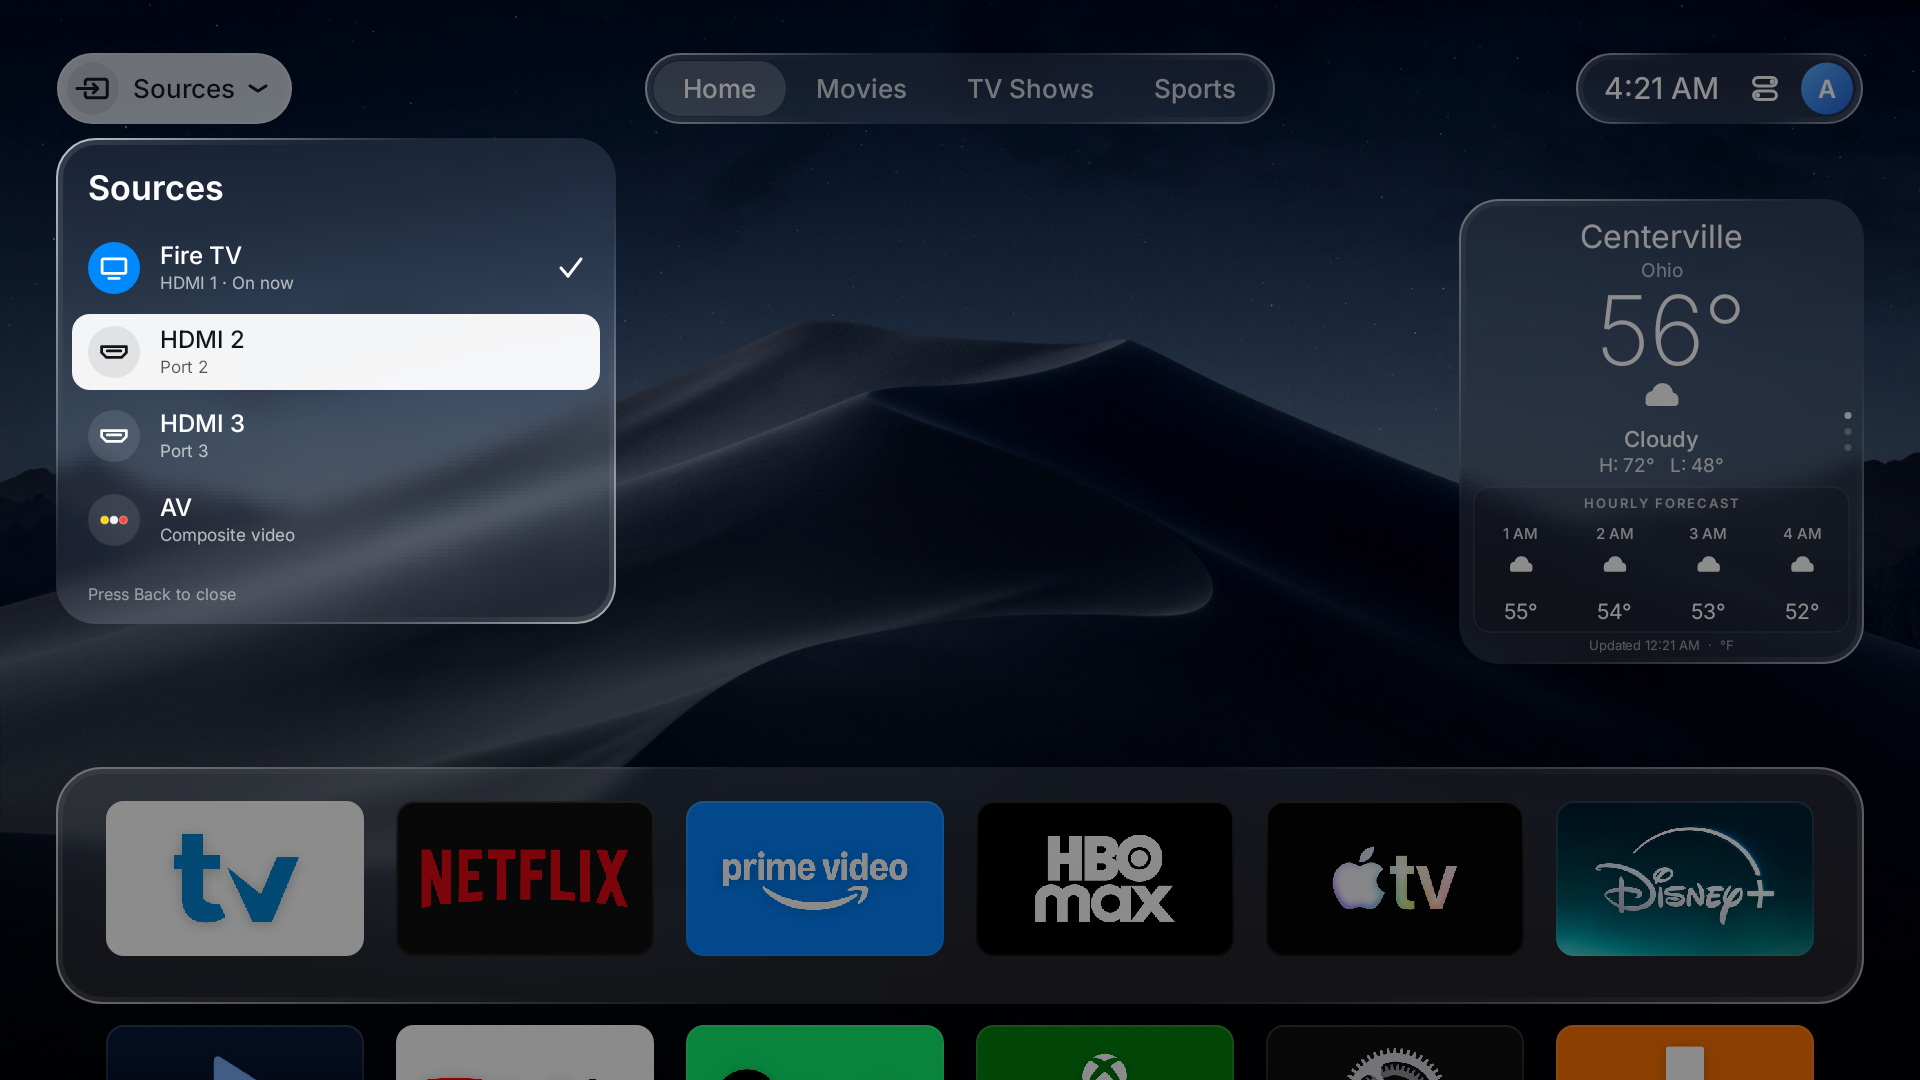
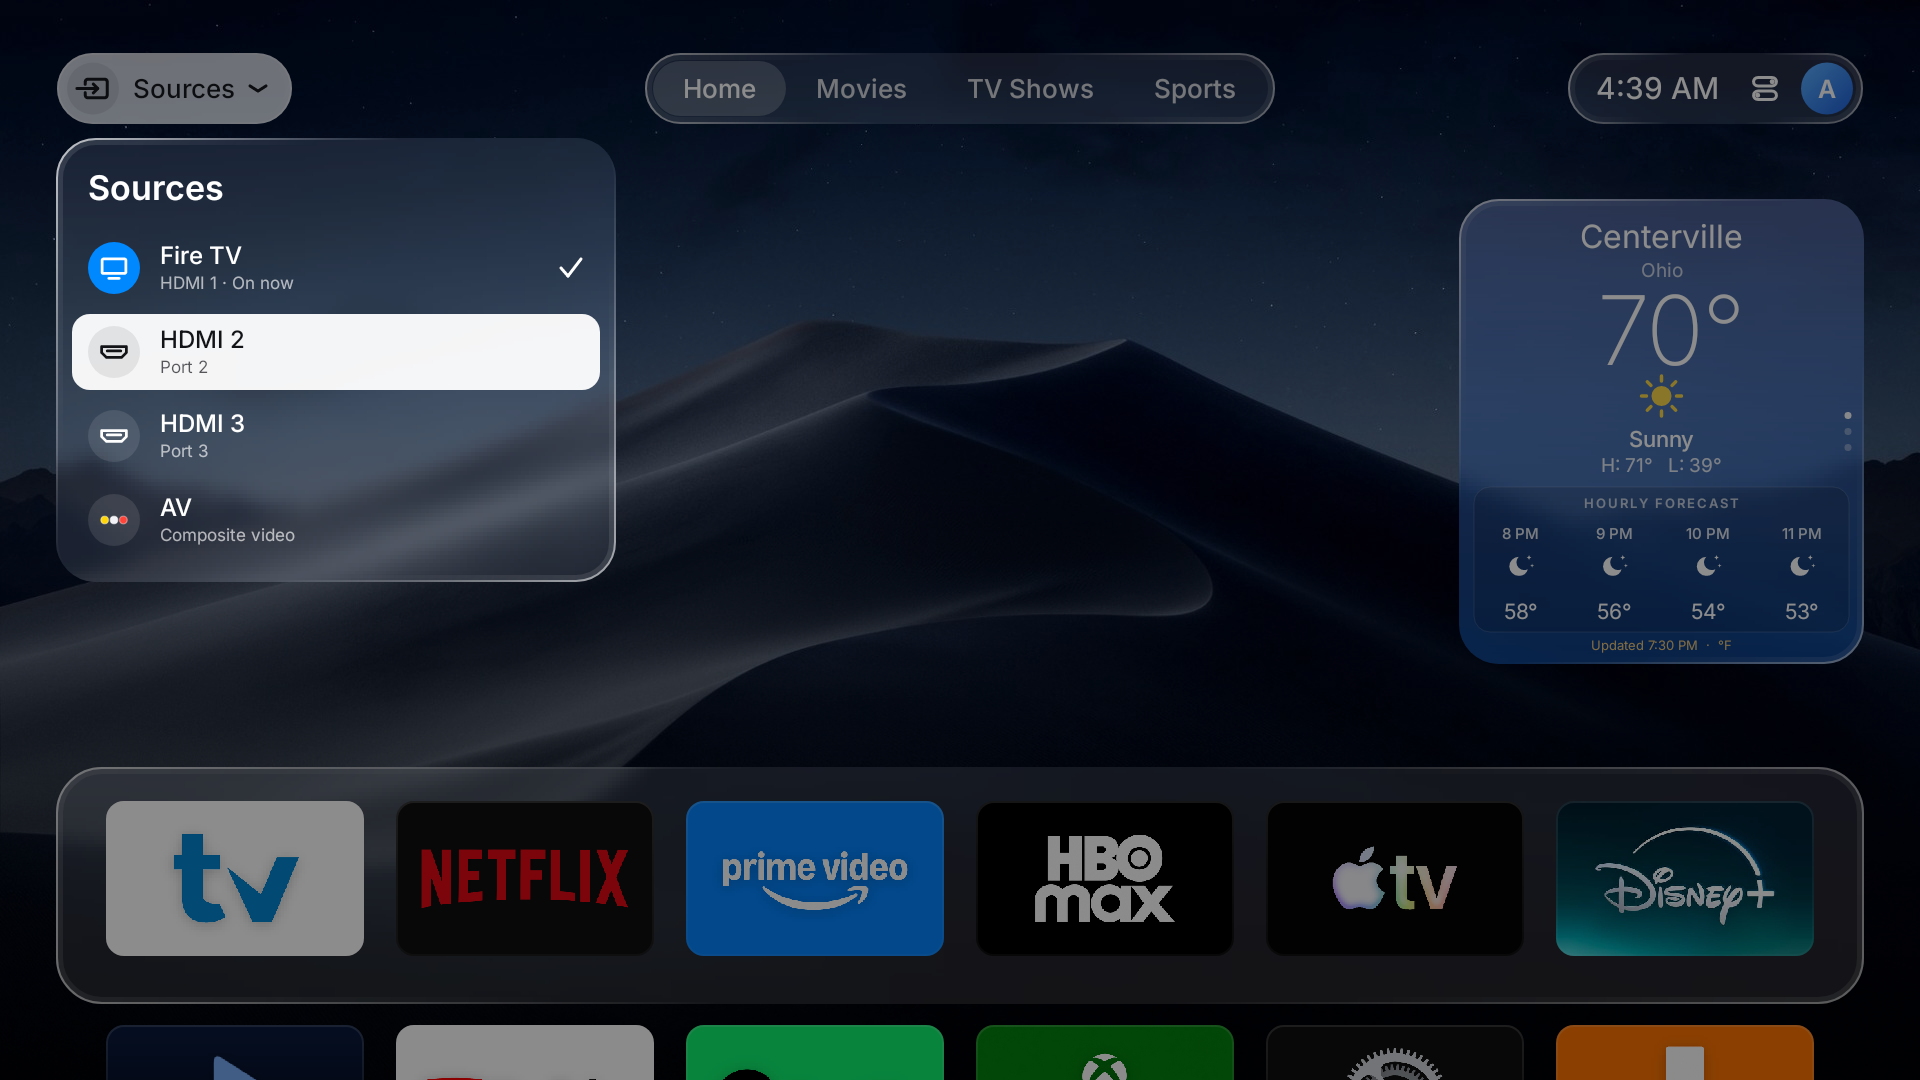
Sources menu look chosen in Home Screen settings; no "Press Back to close"
Home Screen settings has a Sources section under the widgets, as the
widgets have: Tiles (Control Center's glass pills, the default) or List
(a panel like the settings themselves). The "Press Back to close" line
is gone from both the Sources list and Home Screen settings.

Claude-Session: https://claude.ai/code/session_01CeAGQeVUTN7JW2QY8xeSR9

Changed region(s): [[0.75, 0.1833, 0.9688, 0.6417], [0.0312, 0.5194, 0.3438, 0.5806], [0.8125, 0.0611, 0.875, 0.1222]]

diff --git a/launcher/app/src/main/java/app/glasshome/launcher/SourcesPanel.java b/launcher/app/src/main/java/app/glasshome/launcher/SourcesPanel.java
@@ -15,19 +15,19 @@ import java.util.List;
 
 /**
  * The Sources menu, hung under the {@link SourceButton} in the top-left corner: the TV's inputs.
- * Two looks, to choose between:
+ * Two looks, chosen in Home Screen settings as the widgets' are:
  *
- * - {@link Look#TILES}, Control Center's: each input a Liquid Glass pill from the iOS 26 Control
+ * - {@link #TILES}, Control Center's: each input a Liquid Glass pill from the iOS 26 Control
  *   Center kit (a symbol well, a title and a detail), two by two on the kit's grid. The input on
  *   screen has the kit's "connected" blue well.
- * - {@link Look#LIST}, Home Screen settings': one glass panel with a heading and a row per input,
+ * - {@link #LIST}, Home Screen settings': one glass panel with a heading and a row per input,
  *   a check by the one on screen.
  *
  * Arrows move, Select switches to the focused input, Back closes. It is the only focus target
  * while open.
  */
 final class SourcesPanel extends View {
-    enum Look { TILES, LIST }
+    static final String TILES = "tiles", LIST = "list";
 
     enum Kind { FIRE_TV, HDMI, AV }
 
@@ -57,8 +57,6 @@ final class SourcesPanel extends View {
     // The plugs of a composite cable: video, left and right audio
     private static final int[] AV_COLOURS = {0xFFFFD60A, 0xFFF2F2F7, 0xFFFF453A};
 
-    static Look look = Look.TILES;
-
     private final Glass glass;
     private final List<Source> sources = new ArrayList<>();
     private final Paint scrim = new Paint();
@@ -69,10 +67,11 @@ final class SourcesPanel extends View {
     private final Paint shadow = new Paint(Paint.ANTI_ALIAS_FLAG);
     private final TextPaint title = new TextPaint(Paint.ANTI_ALIAS_FLAG);
     private final TextPaint detail = new TextPaint(Paint.ANTI_ALIAS_FLAG);
-    private final TextPaint heading, rowTitle, rowDetail, hint;
+    private final TextPaint heading, rowTitle, rowDetail;
     private final RectF r = new RectF(), well = new RectF(), box = new RectF();
     private final Path path = new Path();
     private Listener listener;
+    private String look = TILES;
     private int focused;
     private float focusT = 1f;
     private ValueAnimator focusAnim;
@@ -90,7 +89,6 @@ final class SourcesPanel extends View {
         heading = text(context, 600, 34, 0xFFFFFFFF);
         rowTitle = text(context, 500, 24, 0xFFFFFFFF);
         rowDetail = text(context, 400, 17, 0xA6FFFFFF);
-        hint = text(context, 400, 16, 0x80FFFFFF);
         glyph.setStyle(Paint.Style.STROKE);
         glyph.setStrokeCap(Paint.Cap.ROUND);
         glyph.setStrokeJoin(Paint.Join.ROUND);
@@ -137,6 +135,16 @@ final class SourcesPanel extends View {
         return getVisibility() == VISIBLE;
     }
 
+    /** {@link #TILES} or {@link #LIST}; anything else is taken as the tiles. */
+    void setLook(String l) {
+        look = LIST.equals(l) ? LIST : TILES;
+        invalidate();
+    }
+
+    String look() {
+        return look;
+    }
+
     int focusedIndex() {
         return focused;
     }
@@ -144,7 +152,7 @@ final class SourcesPanel extends View {
     /** Moves focus; false when there is nothing that way (Up from the top closes the menu). */
     boolean move(int direction) {
         int n = sources.size(), to = focused;
-        if (look == Look.LIST) {
+        if (LIST.equals(look)) {
             if (direction == FOCUS_UP) to = focused - 1;
             else if (direction == FOCUS_DOWN) to = focused + 1;
             else return true;   // nothing beside a list row; the press is used up
@@ -188,7 +196,7 @@ final class SourcesPanel extends View {
 
     @Override
     protected void onDraw(Canvas c) {
-        if (look == Look.LIST) drawList(c);
+        if (LIST.equals(look)) drawList(c);
         else drawTiles(c);
     }
 
@@ -245,7 +253,7 @@ final class SourcesPanel extends View {
     private void drawList(Canvas c) {
         scrim.setColor(0x73000000);
         c.drawRect(0, 0, getWidth(), getHeight(), scrim);
-        float rowH = Ui.px(84), pad = Ui.px(32), header = Ui.px(92), footer = Ui.px(58);
+        float rowH = Ui.px(84), pad = Ui.px(32), header = Ui.px(92), footer = Ui.px(16);
         float top = Ui.px(138), left = Ui.px(56), right = left + Ui.px(560);
         float bottom = top + header + rowH * sources.size() + footer;
         r.set(left, top, right, bottom);
@@ -281,7 +289,6 @@ final class SourcesPanel extends View {
                 c.drawLine(cx - Ui.px(2), midY + Ui.px(8), cx + Ui.px(11), midY - Ui.px(9), mark);
             }
         }
-        c.drawText("Press Back to close", left + pad, bottom - Ui.px(24), hint);
     }
 
     /** Line icons drawn here, as Control Center's: each fits a square of {@code s} around (cx, cy). */

diff --git a/launcher/app/src/test/java/app/glasshome/launcher/SourcesScreenshotTest.java b/launcher/app/src/test/java/app/glasshome/launcher/SourcesScreenshotTest.java
@@ -7,7 +7,6 @@ import static android.view.KeyEvent.KEYCODE_DPAD_RIGHT;
 import static android.view.KeyEvent.KEYCODE_DPAD_UP;
 import static org.junit.Assert.*;
 
-import org.junit.After;
 import org.junit.Test;
 import org.junit.runner.RunWith;
 import org.robolectric.RobolectricTestRunner;
@@ -21,11 +20,6 @@ import org.robolectric.annotation.LooperMode;
 @LooperMode(LooperMode.Mode.PAUSED)
 @Config(sdk = 30, qualifiers = "w960dp-h540dp-land-xhdpi")
 public class SourcesScreenshotTest {
-    @After
-    public void restoreLook() {
-        SourcesPanel.look = SourcesPanel.Look.TILES;
-    }
-
     /** Up to the tab bar, then Left past Home onto the button. */
     private static void toButton(TestHome h) throws Exception {
         while (h.activity.zone() != HomeActivity.Zone.TABS) h.press(KEYCODE_DPAD_UP);
@@ -35,7 +29,6 @@ public class SourcesScreenshotTest {
 
     @Test
     public void captureTiles() throws Exception {
-        SourcesPanel.look = SourcesPanel.Look.TILES;
         TestHome h = new TestHome();
         h.loadSampleWeather();
         TestHome.settle();
@@ -46,6 +39,7 @@ public class SourcesScreenshotTest {
 
         h.press(KEYCODE_DPAD_CENTER);
         assertEquals(HomeActivity.Zone.SOURCES, h.activity.zone());
+        assertEquals("the tiles by default", SourcesPanel.TILES, h.sources.look());
         h.capture("sources-3-tiles-fire-tv.png");
 
         h.press(KEYCODE_DPAD_RIGHT);
@@ -65,12 +59,29 @@ public class SourcesScreenshotTest {
 
     @Test
     public void captureList() throws Exception {
-        SourcesPanel.look = SourcesPanel.Look.LIST;
         TestHome h = new TestHome();
         h.loadSampleWeather();
         TestHome.settle();
+        // Chosen in Home Screen settings, under the widgets
+        h.press(KEYCODE_DPAD_UP);
+        h.press(KEYCODE_DPAD_UP);
+        h.press(KEYCODE_DPAD_RIGHT);   // from Control Center to the avatar
+        h.press(KEYCODE_DPAD_CENTER);
+        assertEquals("Tiles", h.panel.option(8).title);
+        assertTrue("the tiles by default", h.panel.option(8).checked);
+        assertEquals("List", h.panel.option(9).title);
+        while (h.panel.focusedIndex() < 9) h.press(KEYCODE_DPAD_DOWN);
+        h.press(KEYCODE_DPAD_CENTER);
+        assertTrue(h.panel.option(9).checked);
+        assertFalse(h.panel.option(8).checked);
+        TestHome.settle();
+        h.capture("sources-settings.png");
+        h.back();
+        assertEquals("home", "list", h.activity.getSharedPreferences("home", 0).getString("sources", ""));
+
         toButton(h);
         h.press(KEYCODE_DPAD_CENTER);
+        assertEquals(SourcesPanel.LIST, h.sources.look());
         h.capture("sources-6-list-fire-tv.png");
 
         h.press(KEYCODE_DPAD_DOWN);

diff --git a/launcher/app/src/main/java/app/glasshome/launcher/HomeActivity.java b/launcher/app/src/main/java/app/glasshome/launcher/HomeActivity.java
@@ -1181,6 +1181,7 @@ public final class HomeActivity extends Activity implements AppAdapter.Listener,
     // ---- Sources ----------------------------------------------------------------------------
 
     private void openSources() {
+        sources.setLook(settings.sourcesLook());
         sources.setSources(SourcesPanel.sample());
         sources.setVisibility(View.VISIBLE);
         sources.setAlpha(Ui.reducedMotion ? 1f : 0f);
@@ -1230,6 +1231,13 @@ public final class HomeActivity extends Activity implements AppAdapter.Listener,
         options.add(SettingsPanel.Option.choice("WIDGETS", "Glances",
                 "Four small squares, all at once", WidgetPanel.GLANCES, null,
                 WidgetPanel.GLANCES.equals(layout)));
+        String sourcesLook = settings.sourcesLook();
+        options.add(SettingsPanel.Option.choice("SOURCES", "Tiles",
+                "Glass tiles, like Control Center", SourcesPanel.TILES, null,
+                !SourcesPanel.LIST.equals(sourcesLook)));
+        options.add(SettingsPanel.Option.choice("SOURCES", "List",
+                "One panel, like this one", SourcesPanel.LIST, null,
+                SourcesPanel.LIST.equals(sourcesLook)));
         // Sleep's permission can be given back here (it is granted once over ADB), so the launcher can always be uninstalled
         boolean sleep = SystemControls.canSleep(this);
         options.add(SettingsPanel.Option.toggle("CONTROL CENTER", "Allow Sleep",
@@ -1365,6 +1373,9 @@ public final class HomeActivity extends Activity implements AppAdapter.Listener,
         } else if (option.section.equals("WIDGETS")) {
             settings.setWidgetLayout(option.value);
             weather.setLayout(option.value);
+            return;
+        } else if (option.section.equals("SOURCES")) {
+            settings.setSourcesLook(option.value);
             return;
         } else {
             settings.setBackground(option.value);

diff --git a/launcher/app/src/main/java/app/glasshome/launcher/SettingsPanel.java b/launcher/app/src/main/java/app/glasshome/launcher/SettingsPanel.java
@@ -61,7 +61,7 @@ final class SettingsPanel extends View {
     private final Paint thumbPaint = new Paint(Paint.ANTI_ALIAS_FLAG | Paint.FILTER_BITMAP_FLAG);
     private final Paint thumbRim = new Paint(Paint.ANTI_ALIAS_FLAG);
     private final Paint track = new Paint(Paint.ANTI_ALIAS_FLAG);
-    private final TextPaint heading, section, title, subtitle, hint;
+    private final TextPaint heading, section, title, subtitle;
     private final RectF rect = new RectF();
     private final Matrix matrix = new Matrix();
     private final List<Option> options = new ArrayList<>();
@@ -86,7 +86,6 @@ final class SettingsPanel extends View {
         section.setLetterSpacing(0.14f);
         title = text(context, 500, 24, 0xFFFFFFFF);
         subtitle = text(context, 400, 17, 0xA6FFFFFF);
-        hint = text(context, 400, 16, 0x80FFFFFF);
     }
 
     private static TextPaint text(Context c, int weight, int size, int color) {
@@ -151,7 +150,7 @@ final class SettingsPanel extends View {
     @Override
     protected void onDraw(Canvas c) {
         c.drawRect(0, 0, getWidth(), getHeight(), scrim);
-        float rowH = Ui.px(76), pad = Ui.px(32), sectionH = Ui.px(46), header = Ui.px(92), footer = Ui.px(58);
+        float rowH = Ui.px(76), pad = Ui.px(32), sectionH = Ui.px(46), header = Ui.px(92), footer = Ui.px(20);
         // Where each row sits in the list, with a heading wherever the section changes
         float[] rowY = new float[options.size()];
         boolean[] headed = new boolean[options.size()];
@@ -228,7 +227,6 @@ final class SettingsPanel extends View {
             c.drawRect(left, listBottom - fade, right, listBottom, mask);
         }
         c.restoreToCount(layer);
-        c.drawText("Press Back to close", left + pad, bottom - Ui.px(24), hint);
     }
 
     private float scroll;

diff --git a/launcher/app/src/test/java/app/glasshome/launcher/SettingsTest.java b/launcher/app/src/test/java/app/glasshome/launcher/SettingsTest.java
@@ -74,9 +74,11 @@ public class SettingsTest {
         assertEquals("Smart Stack", h.panel.option(6).title);
         assertEquals("Glances", h.panel.option(7).title);
         assertTrue("Smart Stack is the default", h.panel.option(6).checked);
-        assertFalse("Sleep's permission is not granted here", h.panel.option(8).enabled);
-        for (int i = 0; i < 12; i++) h.press(KEYCODE_DPAD_DOWN);
-        assertEquals("stops at the last option that can be used", 7, h.panel.focusedIndex());
+        assertEquals("Tiles", h.panel.option(8).title);
+        assertEquals("List", h.panel.option(9).title);
+        assertFalse("Sleep's permission is not granted here", h.panel.option(10).enabled);
+        for (int i = 0; i < 14; i++) h.press(KEYCODE_DPAD_DOWN);
+        assertEquals("stops at the last option that can be used", 9, h.panel.focusedIndex());
         h.press(KEYCODE_DPAD_LEFT);
         assertEquals(Zone.SETTINGS, h.zone());
 
@@ -165,11 +167,11 @@ public class SettingsTest {
         h.press(KEYCODE_DPAD_UP);
         h.press(KEYCODE_DPAD_RIGHT);
         h.press(KEYCODE_DPAD_CENTER);
-        assertEquals("Opens Glass Home", h.panel.option(9).title);
-        assertTrue(h.panel.option(9).enabled);
-        assertFalse(h.panel.option(9).checked);
-        for (int i = 0; i < 12; i++) h.press(KEYCODE_DPAD_DOWN);
-        assertEquals(9, h.panel.focusedIndex());
+        assertEquals("Opens Glass Home", h.panel.option(11).title);
+        assertTrue(h.panel.option(11).enabled);
+        assertFalse(h.panel.option(11).checked);
+        for (int i = 0; i < 14; i++) h.press(KEYCODE_DPAD_DOWN);
+        assertEquals(11, h.panel.focusedIndex());
         h.press(KEYCODE_DPAD_CENTER);
 
         assertTrue(new HomeSettings(app).homeButtonOpensGlassHome());

diff --git a/launcher/app/src/main/java/app/glasshome/launcher/HomeSettings.java b/launcher/app/src/main/java/app/glasshome/launcher/HomeSettings.java
@@ -38,6 +38,15 @@ final class HomeSettings {
         prefs.edit().putString("widgets", layout).apply();
     }
 
+    /** How the Sources menu looks: {@link SourcesPanel#TILES} (the default) or {@link SourcesPanel#LIST}. */
+    String sourcesLook() {
+        return prefs.getString("sources", SourcesPanel.TILES);
+    }
+
+    void setSourcesLook(String look) {
+        prefs.edit().putString("sources", look).apply();
+    }
+
     /** The widget the Smart Stack was left on ({@link WidgetPanel.Kind} name), or null for the first. */
     String stackWidget() {
         return prefs.getString("stack_widget", null);
